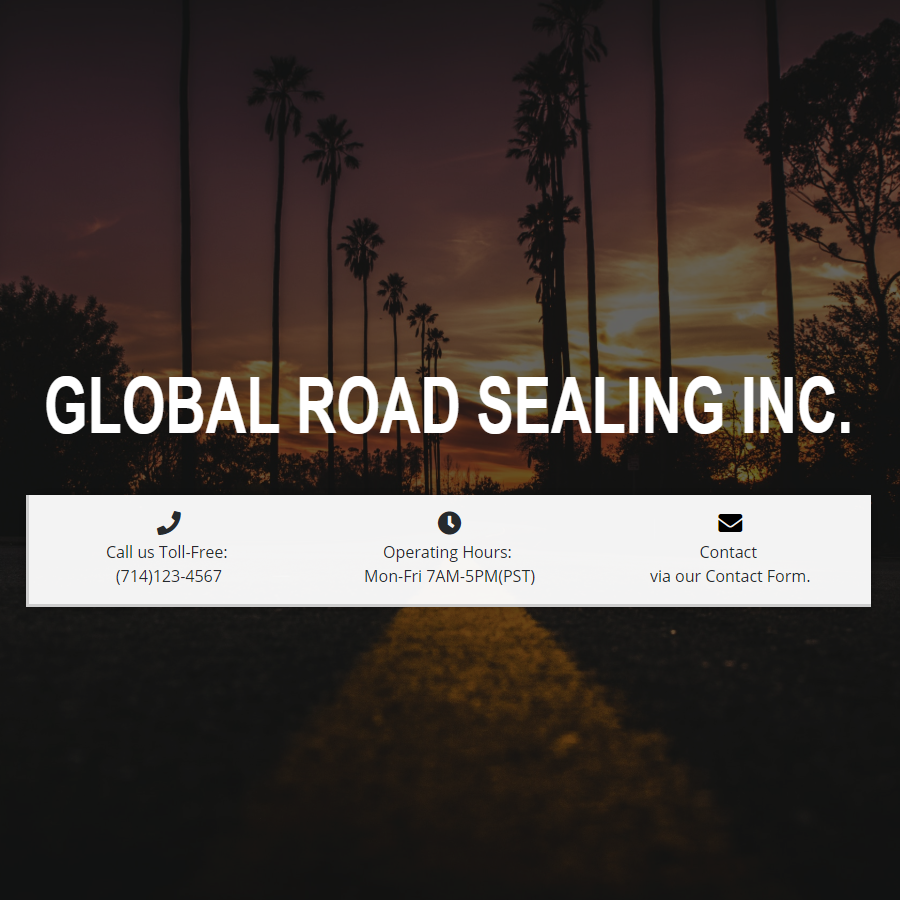
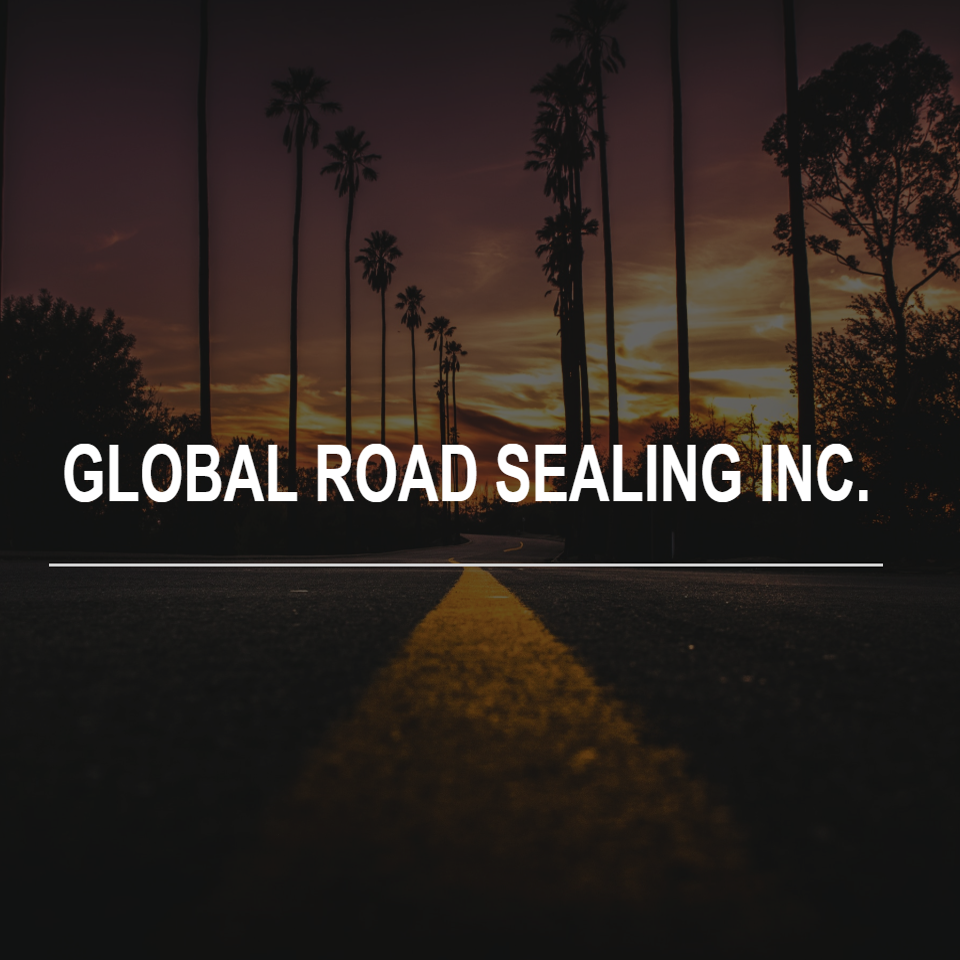
Spacing and Contact text

Changed region(s): [[0.0, 0.0311, 1.0, 0.8089], [0.4667, 0.7467, 0.5289, 0.7778], [0.6222, 0.8089, 0.6533, 0.84]]

diff --git a/src/App.css b/src/App.css
@@ -41,7 +41,7 @@ body {
 }
 :root {
   --darken: rgba(0, 0, 0, 0.6);
-  --xan-darken: rgba(30, 0, 0, 0.75);
+  --xan-darken: rgba(60, 0, 0, 0.65);
   --white: rgba(255, 255, 255, 0.9);
   --black: rgba(0, 0, 0, 0.75);
   --applegrey: #f3f3f3;
@@ -61,7 +61,9 @@ h1 {
   min-height: 700px;
   width: 100%;
 }
-
+.page-padding {
+  padding: 150px 0px;
+}
 .dark-overlay {
   width: 100%;
   height: 100%;
@@ -382,7 +384,6 @@ hr {
 }
 /* ABOUT */
 .about-page {
-  padding: 100px 0px;
   background: white;
 }
 .MyIMG {
@@ -427,7 +428,6 @@ hr {
 }
 .portfolio-intro {
   min-height: 300px;
-  padding: 100px 0px;
 }
 .full-portfolio-page {
   min-height: 100vh;
@@ -469,15 +469,41 @@ hr {
 }
 .portfolio-col {
   width: 100%;
-  max-width: 500px;
-  height: 500px;
+  max-width: 450px;
+  height: 450px;
   padding: 5px !important;
+}
+.portfolio-gallery-inner {
+  height: 100%;
+  width: 100%;
+  background: rgba(0, 0, 0, 0);
+  transition: var(--trans-standard);
+}
+.portfolio-col:hover .portfolio-gallery-inner {
+  background: rgba(200, 200, 200, 0.8);
+  transition: var(--trans-standard);
 }
 .portfolio-gallery-item {
   width: 100%;
   height: 100%;
-  background: blue;
 }
+.portfolio-gallery-item-1 {
+  background: url('img/Gallery\ Xan.png') no-repeat center;
+  background-size: cover;
+}
+.portfolio-gallery-item-2 {
+  background: url('img/Gallery\ VVN.png') no-repeat center;
+  background-size: cover;
+}
+.portfolio-gallery-item-3 {
+  background: url('img/Gallery\ GRSI.png') no-repeat center;
+  background-size: cover;
+}
+.portfolio-gallery-item-4 {
+  background: url('img/Gallery\ Lambada.png') no-repeat center;
+  background-size: cover;
+}
+
 /* CONTACT */
 .contact-roof {
   height: 20vh;

diff --git a/src/components/dev/About.js b/src/components/dev/About.js
@@ -14,7 +14,7 @@ import IMBATMAN from '../../img/IMBATMAN.jpg';
 
 export default () => {
   return (
-    <div id="about" className="about-page">
+    <div id="about" className="about-page page-padding">
       <Container className="">
         {/* <h1 className="page-title text-center">ABOUT</h1>
         <hr /> */}
@@ -28,15 +28,13 @@ export default () => {
               </p>
               <p className="text-muted">
                 I'm a lifelong hard working self-learner with a passion for
-                animation, intuitive UI/UX, and buildin' stuff. I always strive
-                to learn new things and to become the best coder I can possibly
-                be.
+                animation, intuitive UI/UX, and buildin' stuff. I'm always
+                willing and striving to learn new things to improve my skills.
               </p>
               <p className="text-muted">
-                When I'm not coding, you can find me making music, playing
-                computer games, hitting the gym, or chilling with my cat.
-                Recently I've started learning how to develop for Virtual
-                Reality via Unreal Engine.
+                When I'm not coding, you can find me making music, gaming,
+                hitting the gym, or chilling with my cat. Recently I've started
+                learning how to develop for Virtual Reality via Unreal Engine.
               </p>
             </div>
           </Col>

diff --git a/src/components/dev/portfolio/PortfolioGallery.js b/src/components/dev/portfolio/PortfolioGallery.js
@@ -1,24 +1,17 @@
 import React from 'react';
-import { Container, Row, Col } from 'reactstrap';
+import { Container, Row } from 'reactstrap';
+import PortfolioGalleryItem from './PortfolioGalleryItem';
 
 export default () => {
   return (
     <Container className="conditional-padding">
       <Row className="center-items-horizontally">
-        <Col md="12" lg="6" className="portfolio-col center-items">
-          <div className="portfolio-gallery-item portfolio-gallery-item-1" />
-        </Col>
-        <Col md="12" lg="6" className="portfolio-col center-items">
-          <div className="portfolio-gallery-item portfolio-gallery-item-2" />
-        </Col>
+        <PortfolioGalleryItem num="1" />
+        <PortfolioGalleryItem num="2" />
       </Row>
       <Row className="center-items-horizontally">
-        <Col md="12" lg="6" className="portfolio-col center-items">
-          <div className="portfolio-gallery-item portfolio-gallery-item-3" />
-        </Col>
-        <Col md="12" lg="6" className="portfolio-col center-items">
-          <div className="portfolio-gallery-item portfolio-gallery-item-4" />
-        </Col>
+        <PortfolioGalleryItem num="3" />
+        <PortfolioGalleryItem num="4" />
       </Row>
     </Container>
   );

diff --git a/src/components/dev/portfolio/Abilities.js b/src/components/dev/portfolio/Abilities.js
@@ -9,7 +9,7 @@ export default () => {
         <Col lg="4" className="p-card">
           <Fade left>
             <i className="abilities-icon fas fa-mobile" />
-            <h1 className="pb-2 pt-3">Responsive</h1>
+            <h1 className="pb-2 pt-3 OpenSans">Responsive</h1>
             <p className="text-muted">
               My designs are and adjust smoothly to any device.
             </p>
@@ -18,7 +18,7 @@ export default () => {
         <Col lg="4" className="p-card">
           <Fade bottom>
             <i id="test" className="abilities-icon fas fa-atom" />
-            <h1 className="pb-2 pt-3">Modern</h1>
+            <h1 className="pb-2 pt-3 OpenSans">Modern</h1>
             <p className="text-muted">
               My layouts are all based on modern UI/UX trends.
             </p>
@@ -27,7 +27,7 @@ export default () => {
         <Col lg="4" className="p-card">
           <Fade right>
             <i className="abilities-icon fas fa-lightbulb" />
-            <h1 className="pb-2 pt-3">Dynamic</h1>
+            <h1 className="pb-2 pt-3 OpenSans">Dynamic</h1>
             <p className="text-muted">
               I enjoy bringing sites to life with animations.
             </p>

diff --git a/src/components/dev/Contact.js b/src/components/dev/Contact.js
@@ -10,8 +10,8 @@ export default () => {
           <hr className="text-light border-bottom border-light" />
 
           <p className="text-light centered-text text-center">
-            Questions or comments? I'd love to hear from you and I'm to projects
-            and opportunities! Email me via{' '}
+            Questions or comments? I'm open to projects and opportunities and
+            I'd love to hear from you! Email me via{' '}
             <strong className="lead OpenSans">AlexanderLeDev@gmail.com </strong>{' '}
             or DM.
           </p>

diff --git a/src/components/dev/portfolio/PortfolioGalleryItem.js b/src/components/dev/portfolio/PortfolioGalleryItem.js
@@ -1,0 +1,13 @@
+import React from 'react';
+import { Col } from 'reactstrap';
+
+export default props => {
+  const { num } = props;
+  return (
+    <Col md="12" lg="6" className="portfolio-col center-items">
+      <div className={`portfolio-gallery-item portfolio-gallery-item-${num}`}>
+        <div className="portfolio-gallery-inner" />
+      </div>
+    </Col>
+  );
+};

diff --git a/src/components/dev/portfolio/PortfolioIntro.js b/src/components/dev/portfolio/PortfolioIntro.js
@@ -4,7 +4,7 @@ import Abilities from './Abilities';
 
 export default () => {
   return (
-    <div className="portfolio-intro center-items">
+    <div className="portfolio-intro page-padding center-items">
       <Container className="conditional-padding mb-2">
         <h1 className="OpenSans font-weight-bold page-title text-center ">
           PORTFOLIO
